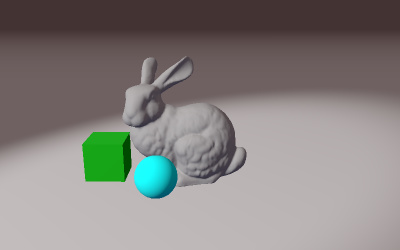
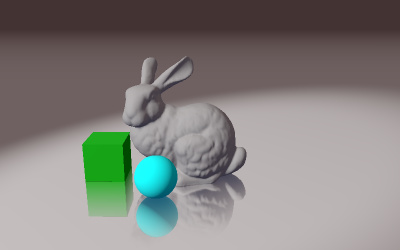
SSRPassReflectorClippingPlanePr (#21574)

Changed region(s): [[0.21, 0.672, 0.63, 0.952]]

diff --git a/examples/jsm/objects/ReflectorForSSRPass.js b/examples/jsm/objects/ReflectorForSSRPass.js
@@ -13,7 +13,8 @@ import {
 	WebGLRenderTarget,
 	DepthTexture,
 	UnsignedShortType,
-	NearestFilter
+	NearestFilter,
+	Plane
 } from '../../../build/three.module.js';
 
 var ReflectorForSSRPass = function ( geometry, options ) {
@@ -29,6 +30,7 @@ var ReflectorForSSRPass = function ( geometry, options ) {
 	var color = ( options.color !== undefined ) ? new Color( options.color ) : new Color( 0x7F7F7F );
 	var textureWidth = options.textureWidth || 512;
 	var textureHeight = options.textureHeight || 512;
+	var clipBias = options.clipBias || 0;
 	var shader = options.shader || ReflectorForSSRPass.ReflectorShader;
 	var useDepthTexture = options.useDepthTexture === true;
 	var yAxis = new Vector3( 0, 1, 0 );
@@ -135,6 +137,9 @@ var ReflectorForSSRPass = function ( geometry, options ) {
 
 	this.material = material;
 
+	const globalPlane = new Plane( new Vector3( 0, 1, 0 ), clipBias );
+	const globalPlanes = [ globalPlane ];
+
 	this.doRender = function ( renderer, scene, camera ) {
 
 		material.uniforms[ 'maxDistance' ].value = scope.maxDistance;
@@ -201,33 +206,6 @@ var ReflectorForSSRPass = function ( geometry, options ) {
 		textureMatrix.multiply( virtualCamera.matrixWorldInverse );
 		textureMatrix.multiply( scope.matrixWorld );
 
-		/* Note: For the sake of accurate tDepth, temporarily turned off this Oblique Near-Plane Clipping feature. https://github.com/mrdoob/three.js/pull/21403
-
-			// Now update projection matrix with new clip plane, implementing code from: http://www.terathon.com/code/oblique.html
-			// Paper explaining this technique: http://www.terathon.com/lengyel/Lengyel-Oblique.pdf
-			reflectorPlane.setFromNormalAndCoplanarPoint( normal, reflectorWorldPosition );
-			reflectorPlane.applyMatrix4( virtualCamera.matrixWorldInverse );
-
-			clipPlane.set( reflectorPlane.normal.x, reflectorPlane.normal.y, reflectorPlane.normal.z, reflectorPlane.constant );
-
-			var projectionMatrix = virtualCamera.projectionMatrix;
-
-			q.x = ( Math.sign( clipPlane.x ) + projectionMatrix.elements[ 8 ] ) / projectionMatrix.elements[ 0 ];
-			q.y = ( Math.sign( clipPlane.y ) + projectionMatrix.elements[ 9 ] ) / projectionMatrix.elements[ 5 ];
-			q.z = - 1.0;
-			q.w = ( 1.0 + projectionMatrix.elements[ 10 ] ) / projectionMatrix.elements[ 14 ];
-
-			// Calculate the scaled plane vector
-			clipPlane.multiplyScalar( 2.0 / clipPlane.dot( q ) );
-
-			// Replacing the third row of the projection matrix
-			projectionMatrix.elements[ 2 ] = clipPlane.x;
-			projectionMatrix.elements[ 6 ] = clipPlane.y;
-			projectionMatrix.elements[ 10 ] = clipPlane.z + 1.0 - clipBias;
-			projectionMatrix.elements[ 14 ] = clipPlane.w;
-
-		*/
-
 		// Render
 
 		renderTarget.texture.encoding = renderer.outputEncoding;
@@ -238,9 +216,11 @@ var ReflectorForSSRPass = function ( geometry, options ) {
 
 		var currentXrEnabled = renderer.xr.enabled;
 		var currentShadowAutoUpdate = renderer.shadowMap.autoUpdate;
+		var currentClippingPlanes = renderer.clippingPlanes;
 
 		renderer.xr.enabled = false; // Avoid camera modification
 		renderer.shadowMap.autoUpdate = false; // Avoid re-computing shadows
+		renderer.clippingPlanes = globalPlanes;
 
 		renderer.setRenderTarget( renderTarget );
 
@@ -251,6 +231,7 @@ var ReflectorForSSRPass = function ( geometry, options ) {
 
 		renderer.xr.enabled = currentXrEnabled;
 		renderer.shadowMap.autoUpdate = currentShadowAutoUpdate;
+		renderer.clippingPlanes = currentClippingPlanes;
 
 		renderer.setRenderTarget( currentRenderTarget );
 

diff --git a/examples/webgl_postprocessing_ssr.html b/examples/webgl_postprocessing_ssr.html
@@ -130,7 +130,7 @@
 
 			geometry = new THREE.PlaneBufferGeometry( 1, 1 );
 			groundReflector = new ReflectorForSSRPass( geometry, {
-				clipBias: 0,
+				clipBias: 0.0003,
 				textureWidth: window.innerWidth,
 				textureHeight: window.innerHeight,
 				color: 0x888888,
